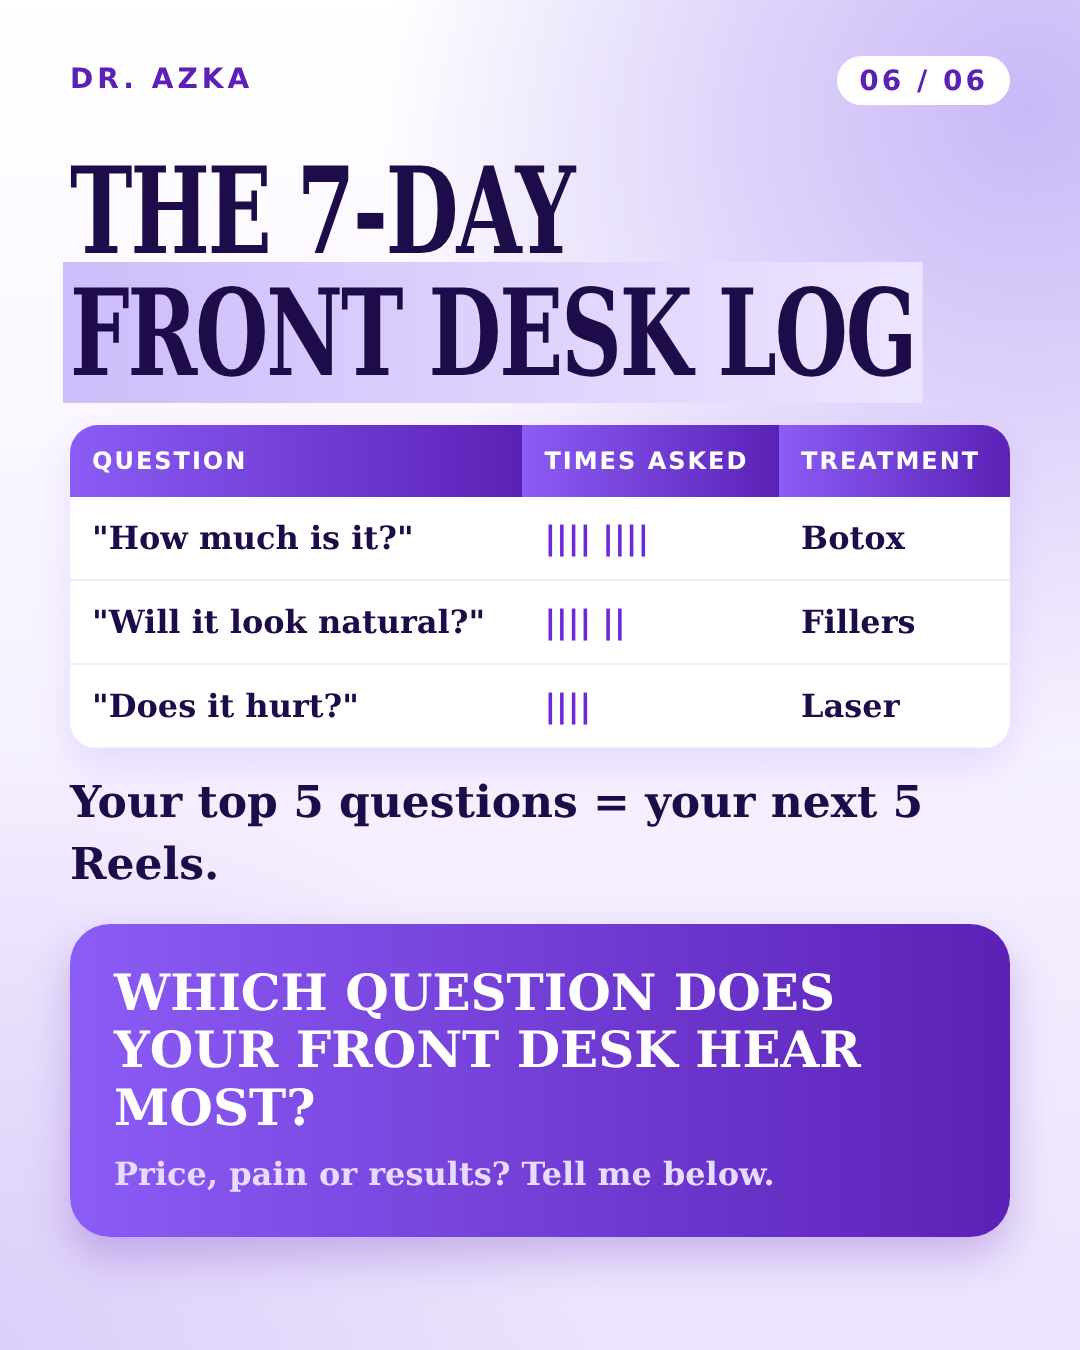
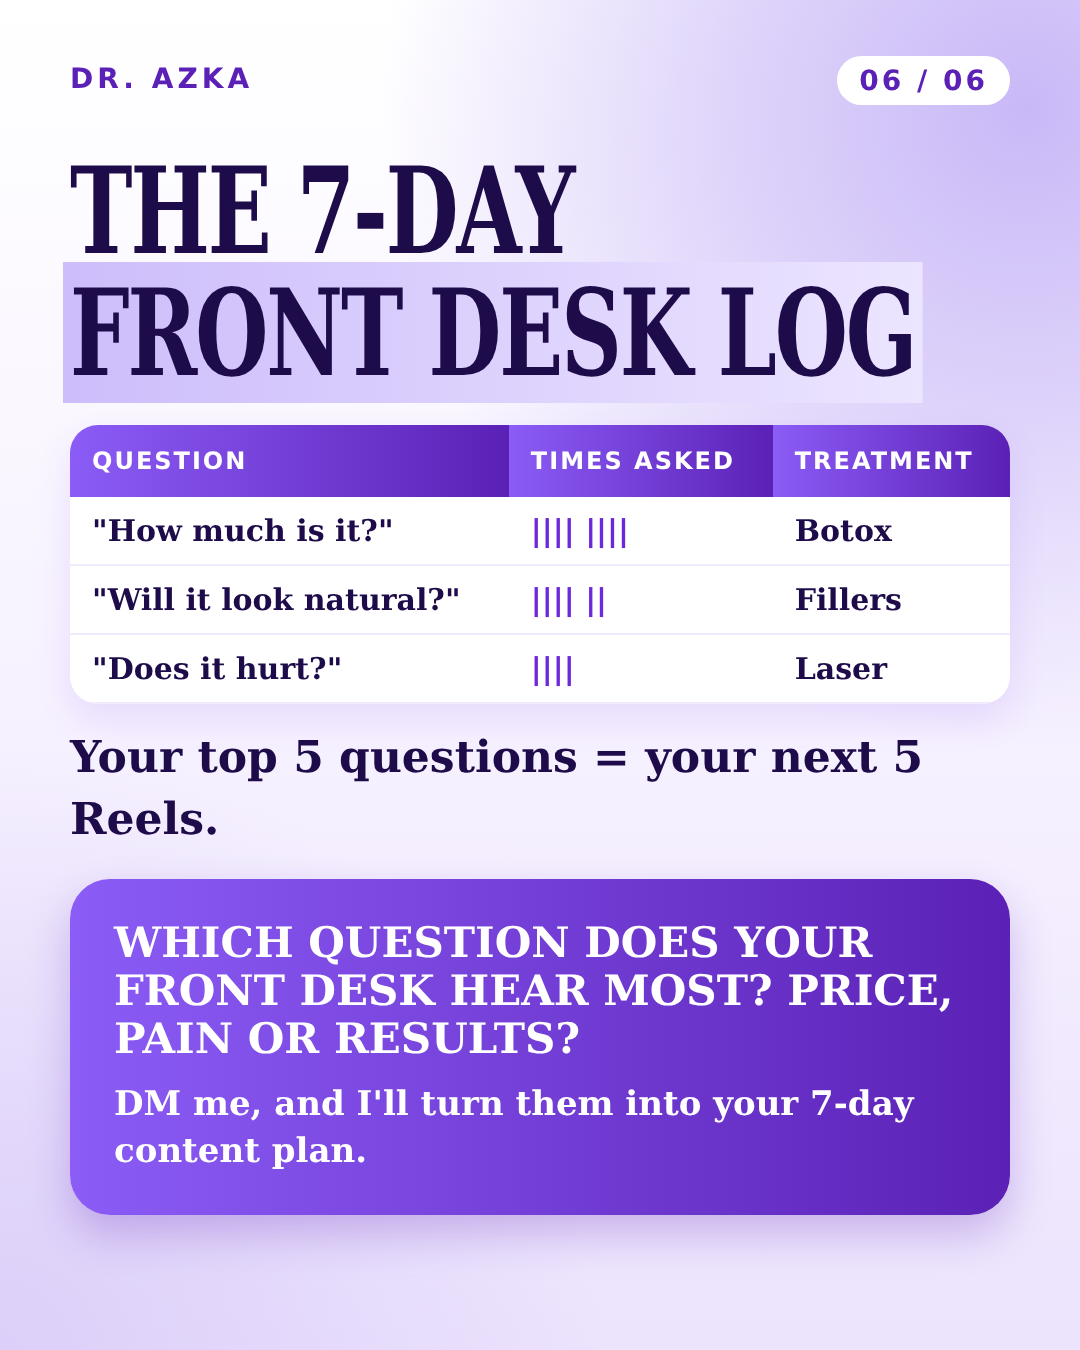
Carousel 1: replace comment CTA with 7-day content plan DM offer
Claude-Session: https://claude.ai/code/session_01FWPPE9U11P2MJTAp1qa8Bz

Changed region(s): [[0.0611, 0.3111, 0.9472, 0.9333], [0.0917, 0.3733, 0.3667, 0.4044]]

diff --git a/carousels/2026-11-05-c1/slides.html b/carousels/2026-11-05-c1/slides.html
@@ -2,7 +2,7 @@
 .qa .content{top:180px}.qa .card{margin-top:56px!important;padding:40px 44px}.qa .ask{font-size:58px}.qa .lab{font-size:24px}
 .qa .reel{margin-top:32px!important;padding:40px 40px}.qa .reel .t{font-size:44px}.qa .play{width:104px;height:104px}
 .qa .punch{margin-top:56px;font-size:54px}
-#s2 .punch{font-size:48px}#s6 .log td{font-size:32px;padding:22px 22px}#s6 .log th{font-size:24px;padding:22px}#s6 .body{font-size:44px}
+#s2 .punch{font-size:48px}#s6 .log td{font-size:30px;padding:16px 22px}#s6 .cta h2{font-size:42px}#s6 .cta p{font-size:34px;color:#fff}#s6 .log th{font-size:24px;padding:22px}#s6 .body{font-size:44px}
 </style></head><body>
 <svg width="0" height="0" style="position:absolute"><defs><symbol id="arr" viewBox="0 0 136 44"><path d="M0 22H130M110 2l20 20-20 20" stroke="#5b21b6" stroke-width="3" fill="none"/></symbol></defs></svg>
 
@@ -55,6 +55,6 @@
   <tr><td>"Will it look natural?"</td><td class="n">||||  ||</td><td>Fillers</td></tr>
   <tr><td>"Does it hurt?"</td><td class="n">||||</td><td>Laser</td></tr></table>
  <div class="body" style="margin-top:22px">Your top 5 questions = your next 5 Reels.</div>
- <div class="cta" style="margin-top:28px"><h2>Which question does your front desk hear most?</h2><p>Price, pain or results? Tell me below.</p></div>
+ <div class="cta" style="margin-top:28px"><h2>Which question does your front desk hear most? Price, pain or results?</h2><p>DM me, and I'll turn them into your 7-day content plan.</p></div>
 </div></div>
 </body></html>
